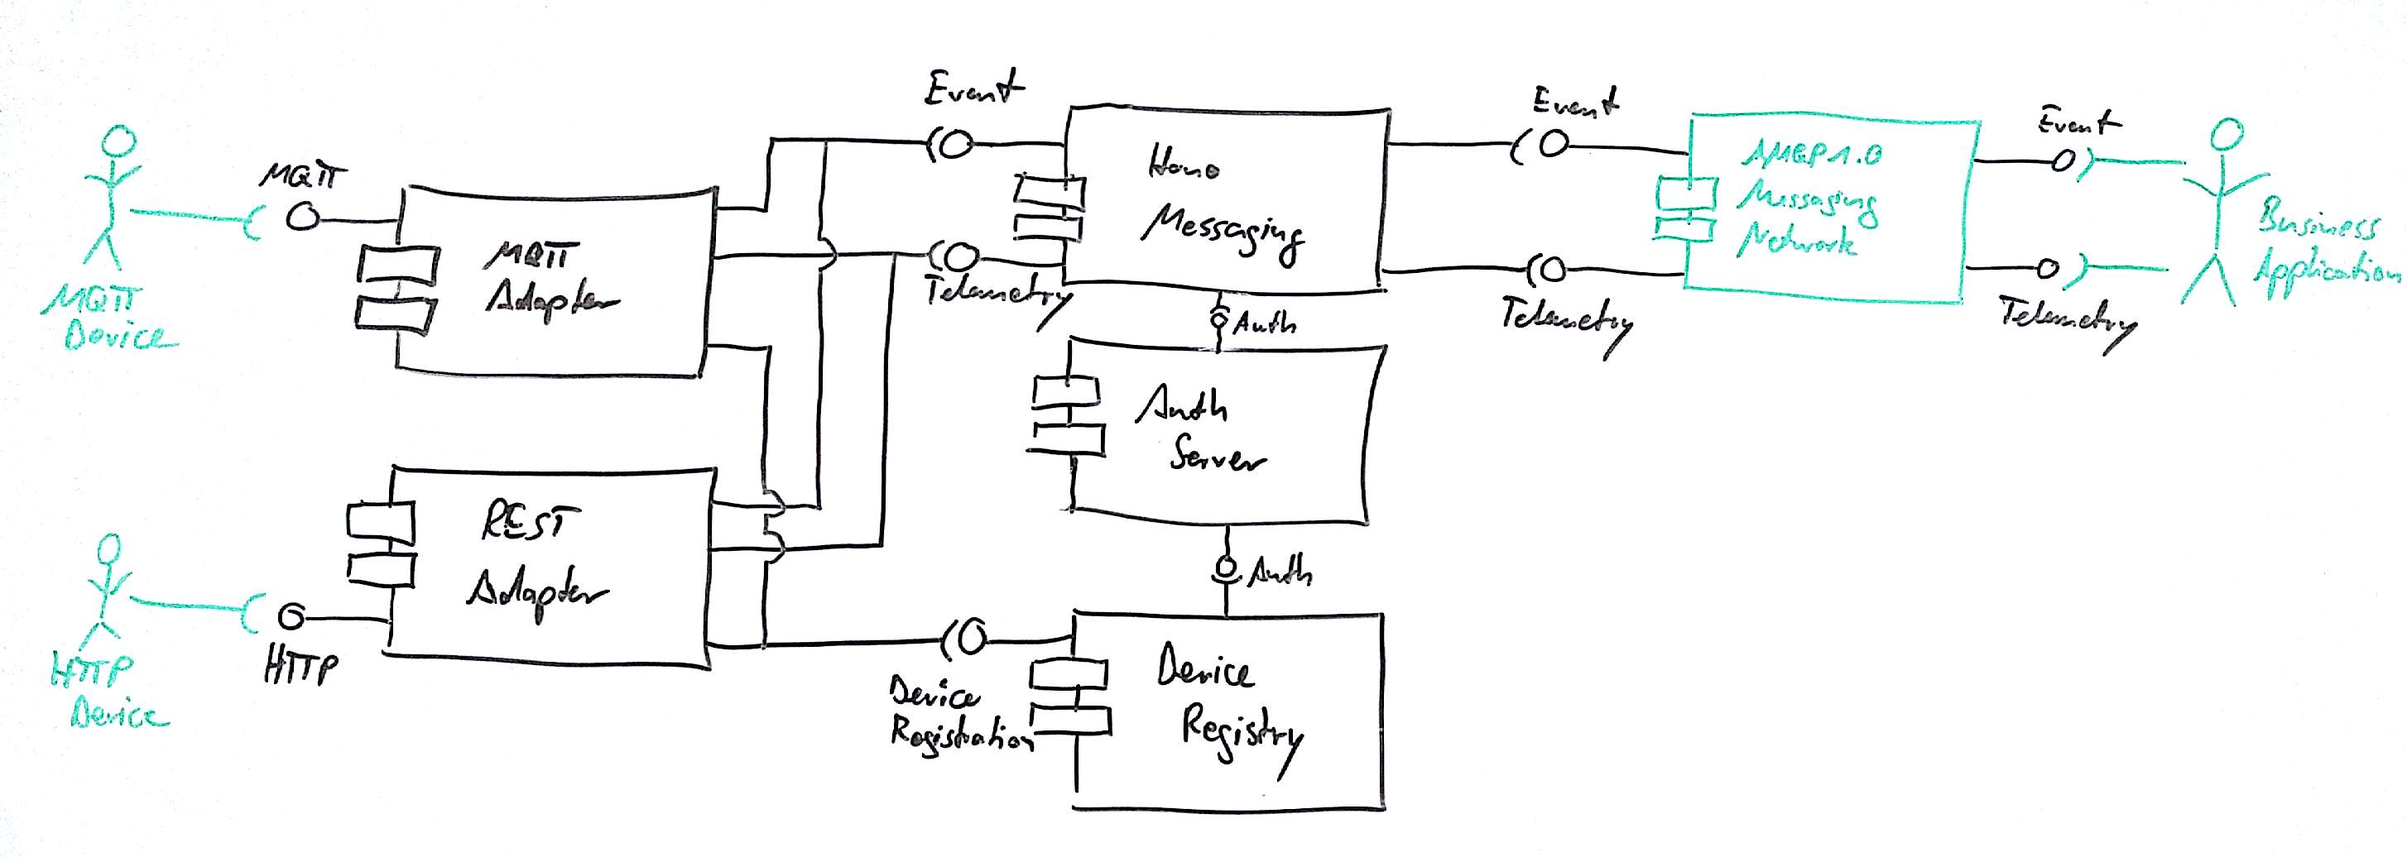
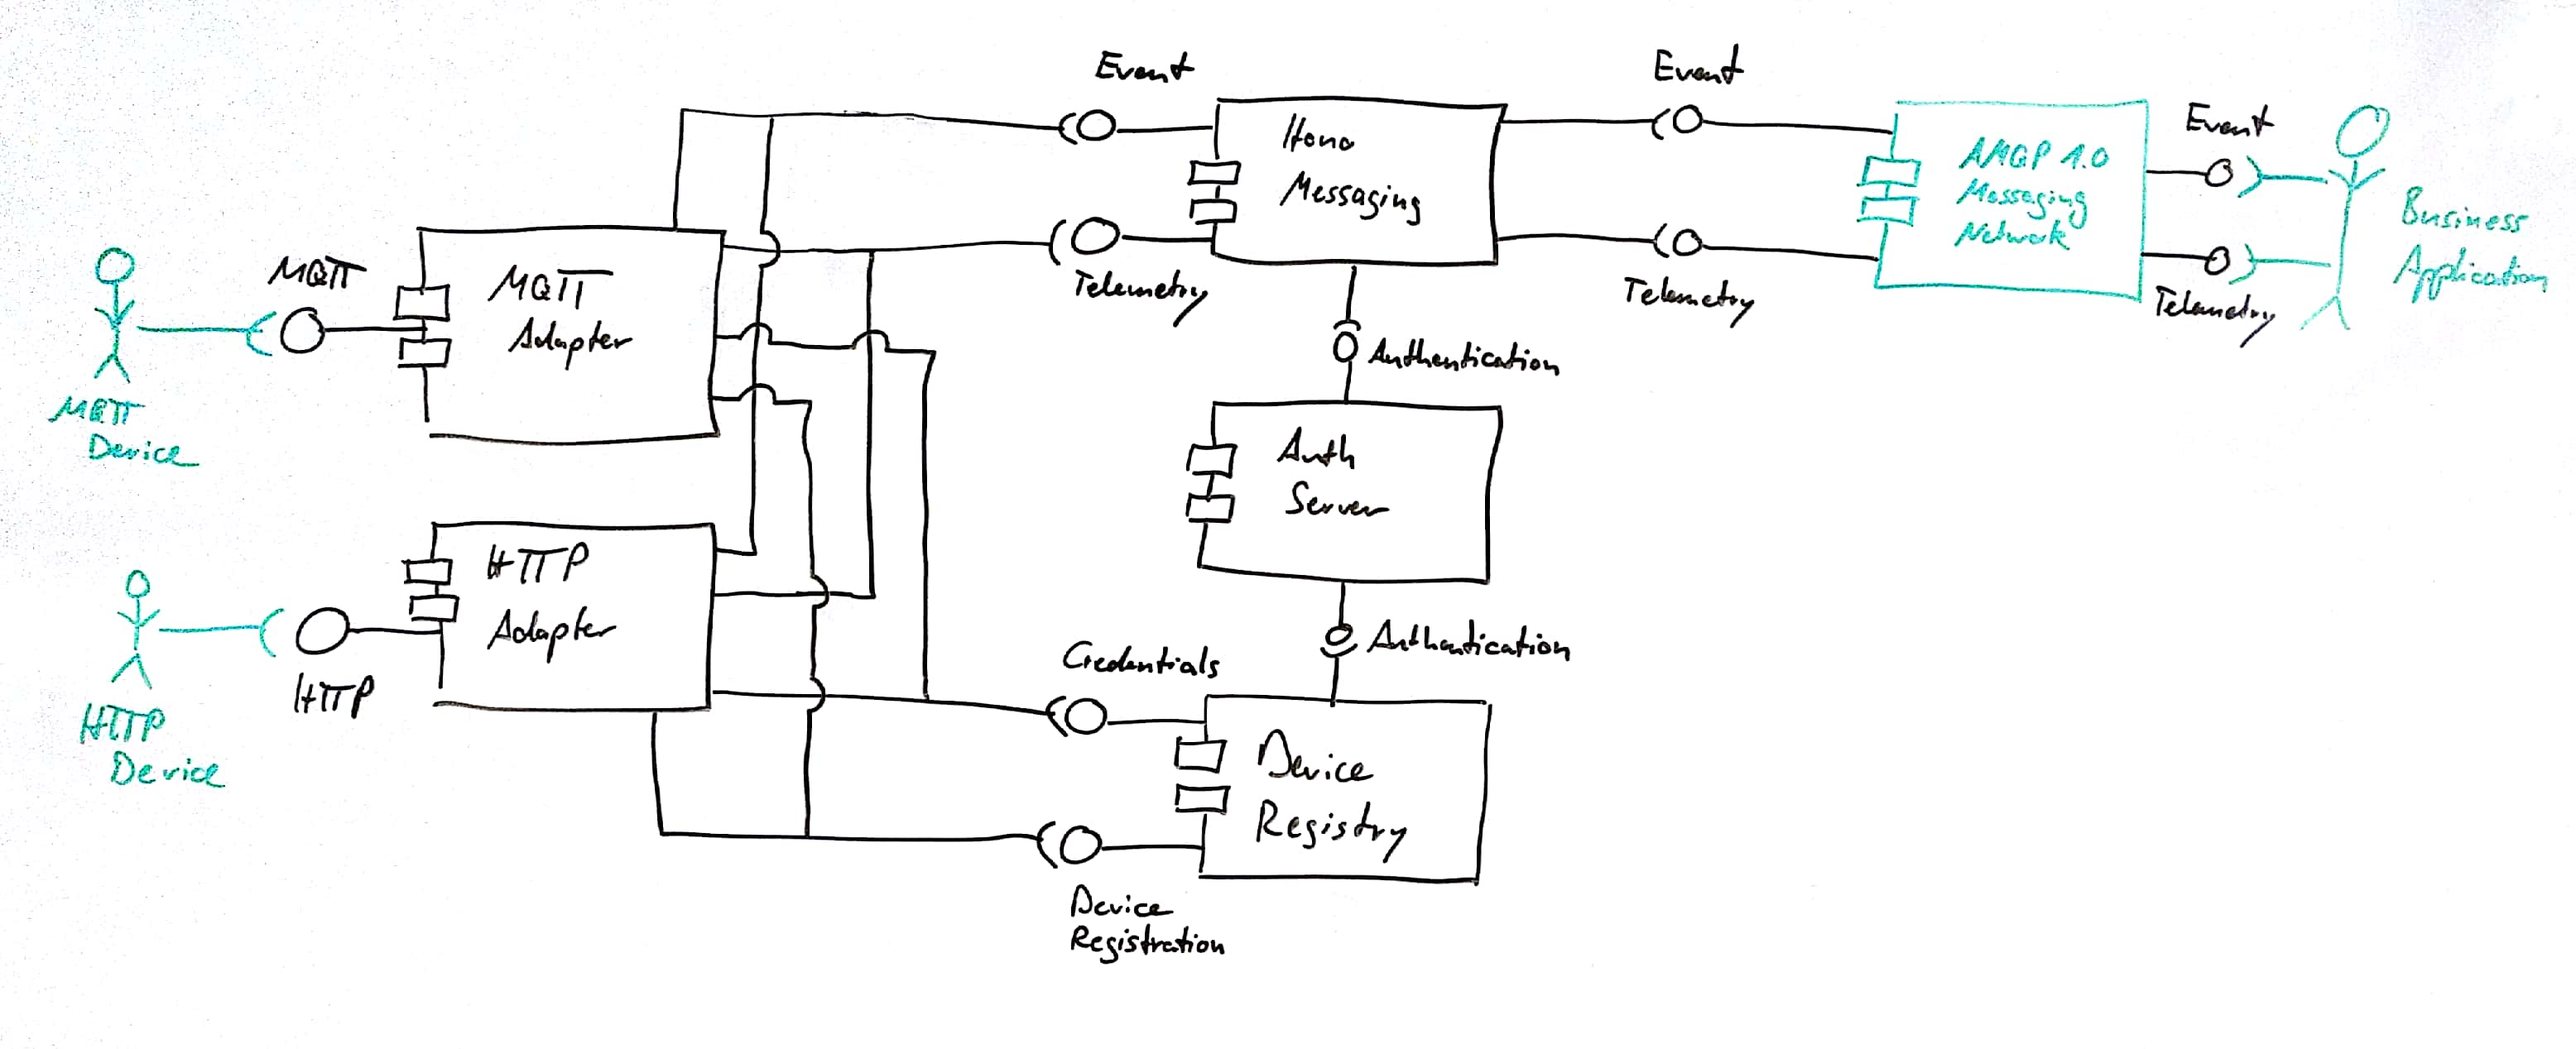
[#435] Rename REST to HTTP Adapter on component view diagram.

Changed region(s): [[0.0, 0.0618, 1.0, 0.9575], [0.0928, 0.1853, 0.1547, 0.2162]]

diff --git a/site/content/architecture/component-view/Component-View.md b/site/content/architecture/component-view/Component-View.md
@@ -12,7 +12,7 @@ The diagram below provides an overview of the top level *logical* components.
 
 {{< figure src="../Top-Level.jpg" >}}
 
-The *MQTT* and *Rest Protocol Adapters* use the *Device Registry* to assert the registration status of *Devices* connecting to the adapters. The *Device Registry* issues a token asserting the status which the protocol adapters include when forwarding telemetry data and events to the *Hono Messaging* component. The *Hono Messaging* component verifies the device registration status by means of validating the token and forwards the messages to the downstream *AMQP 1.0 Messaging Network* for delivery to *Business Applications*.
+The *MQTT* and *HTTP Adapters* use the *Device Registry* to authenticate *Devices* connecting to the adapters and asserting their registration status. The *Device Registry* issues a token asserting the status which the protocol adapters include when forwarding telemetry data and events to the *Hono Messaging* component. The *Hono Messaging* component verifies the device registration status by means of validating the token and forwards the messages to the downstream *AMQP 1.0 Messaging Network* for delivery to *Business Applications*.
 
 Both *Hono Messaging* and *Device Registry* use the *Auth Server* to authenticate the protocol adapters during connection establishment.
 
